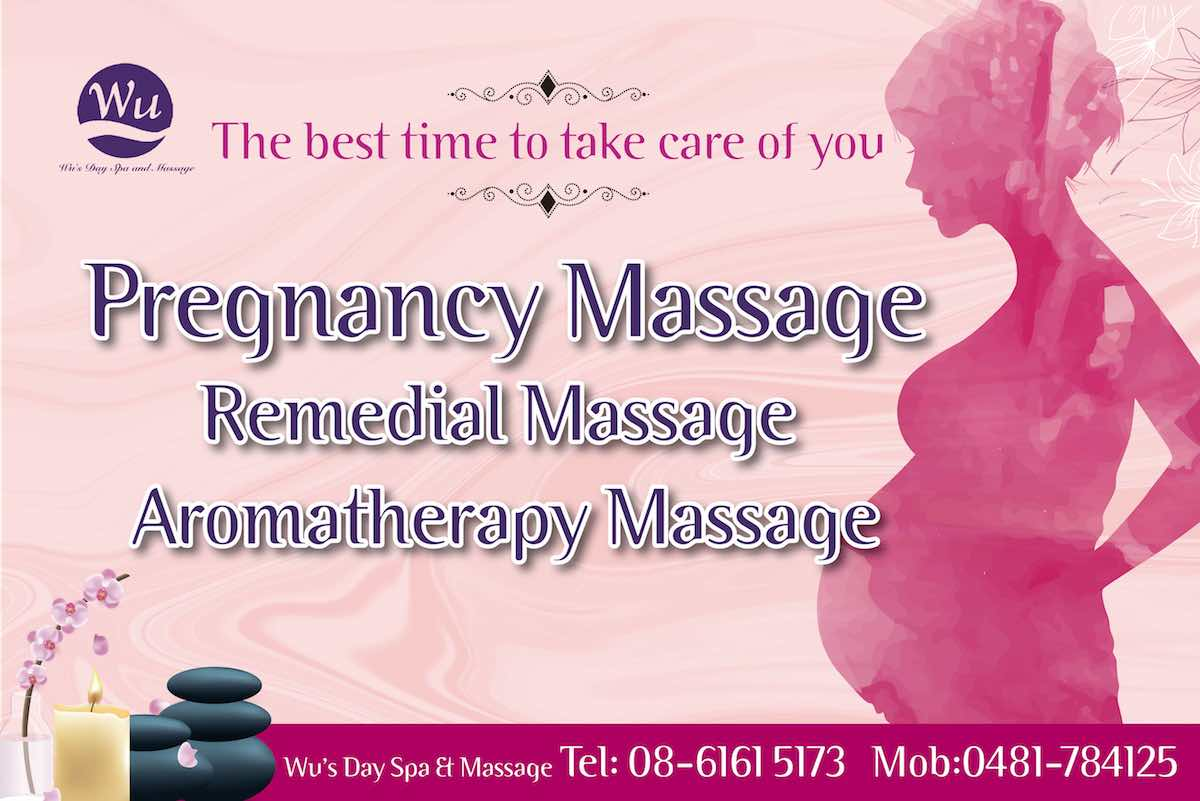
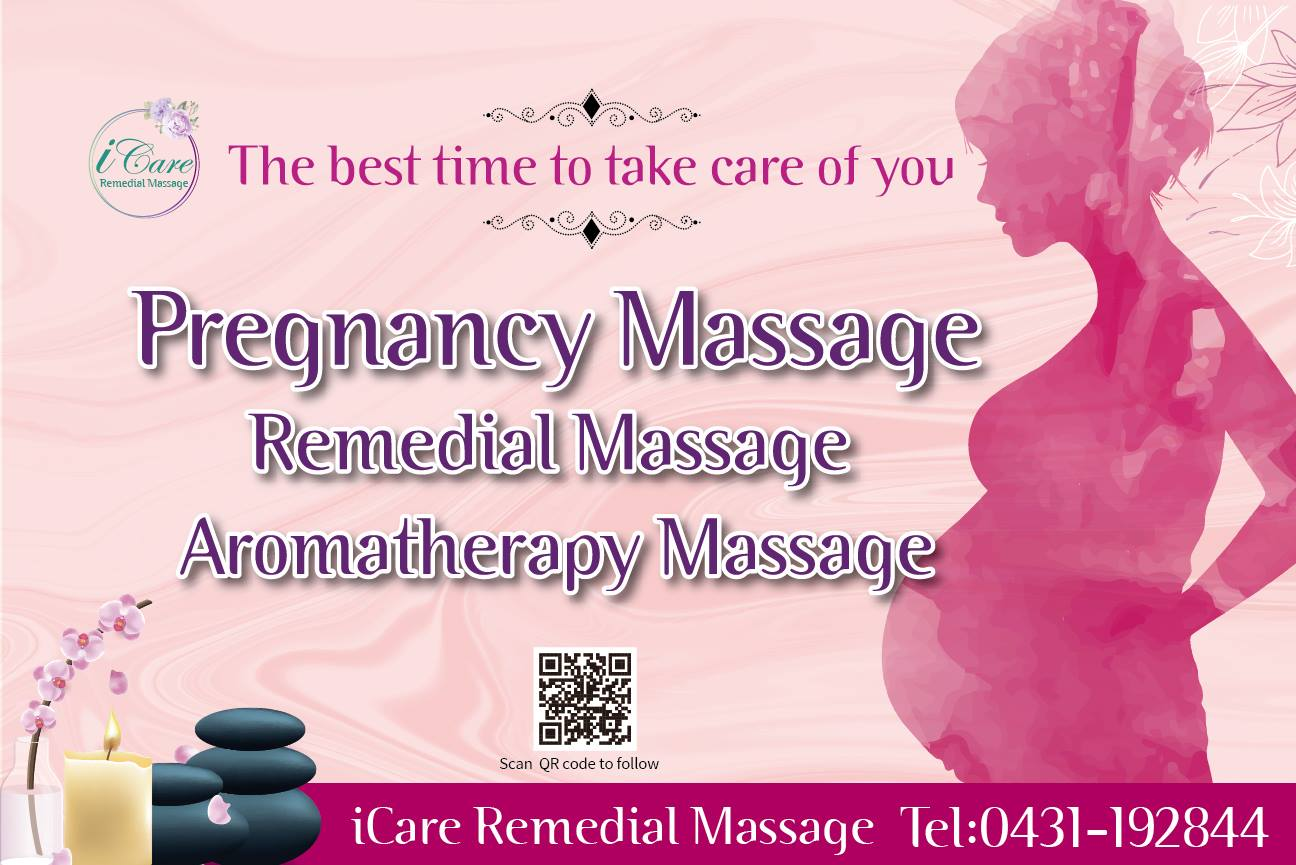
update: temperately remove booking and location infomation

Changed region(s): [[0.0, 0.3121, 0.9867, 1.0], [0.185, 0.0936, 0.74, 0.2809], [0.0617, 0.0624, 0.1542, 0.2497]]

diff --git a/src/components/about.js b/src/components/about.js
@@ -26,7 +26,7 @@ export default class About extends Component {
             <div className="column is-10 is-offset-1">
               <p>My name is Jenny.</p>
               <p>
-                I am a 10-years-experienced massage therapist. Qualified Diploma
+                I am a 11-years-experienced massage therapist. Qualified Diploma
                 of remedial massage and practitioner of pregnancy massage.
               </p>
               <p>
@@ -61,7 +61,7 @@ export default class About extends Component {
                 <li>Myofascial Release</li>
                 <li>Positional Release</li>
                 <li>Trager</li>
-                <li>Postual Massage</li>
+                <li>Postnatal Massage</li>
                 <li>Reflexology</li>
                 <li>Manual Lymphtic Drainage</li>
               </ul>
@@ -69,7 +69,7 @@ export default class About extends Component {
               <ul>
                 <li>Pregnancy Massage</li>
                 <li>Kinesiotaping</li>
-                <li>Craniosacral Therapy</li>
+                <li>Reiki Therapy</li>
                 <li>Fertility Massage Therapy</li>
               </ul>
             </div>
@@ -93,7 +93,7 @@ const ImageJennyPortrait = () => (
         }
       }
     `}
-    render={data => (
+    render={(data) => (
       <Img
         alt="jenny's Portrait"
         imgStyle={{ borderRadius: '50%' }}

diff --git a/src/pages/index.js b/src/pages/index.js
@@ -44,7 +44,7 @@ const IndexPage = ({ data }) => {
                 <h2 className="subtitle is-4">
                   The best time to take care of you
                 </h2>
-                <div className="buttons are-medium">
+                {/* <div className="buttons are-medium">
                   <a
                     className="button is-primary"
                     href="https://wuasianmassage.mylocalsalon.com/onlinebooking/v7410/Steps/SelectServices.aspx"
@@ -64,7 +64,7 @@ const IndexPage = ({ data }) => {
                     </span>
                     <span>Gift Voucher</span>
                   </a>
-                </div>
+                </div> */}
               </div>
             </div>
           </div>
@@ -105,9 +105,9 @@ const IndexPage = ({ data }) => {
       <section className="section testimony">
         <Testimony avatarInfo={data.AvatarQueryAll.edges} />
       </section>
-      <section className="section map">
+      {/* <section className="section map">
         <Map />
-      </section>
+      </section> */}
     </Layout>
   )
 }
@@ -132,7 +132,7 @@ export const query = graphql`
       }
     }
 
-    JennyAdQuery: file(relativePath: { eq: "jennyad.png" }) {
+    JennyAdQuery: file(relativePath: { eq: "jennyad.jpg" }) {
       childImageSharp {
         fluid(maxWidth: 960) {
           ...GatsbyImageSharpFluid_noBase64

diff --git a/src/components/nav.js b/src/components/nav.js
@@ -21,8 +21,8 @@ export default class Nav extends Component {
     // Check if there are any navbar burgers
     if ($navbarBurgers.length > 0) {
       // Add a click event on each of them
-      $navbarBurgers.forEach(function(el) {
-        el.addEventListener('click', function() {
+      $navbarBurgers.forEach(function (el) {
+        el.addEventListener('click', function () {
           // Get the target from the "data-target" attribute
           var target = el.dataset.target
           var $target = document.getElementById(target)
@@ -93,7 +93,7 @@ export default class Nav extends Component {
               </Link>
             </div>
 
-            <div className="navbar-end">
+            {/* <div className="navbar-end">
               <div className="navbar-item">
                 <div className="field is-grouped">
                   <p className="control">
@@ -124,7 +124,7 @@ export default class Nav extends Component {
                   </p>
                 </div>
               </div>
-            </div>
+            </div> */}
           </div>
         </nav>
       </React.Fragment>
